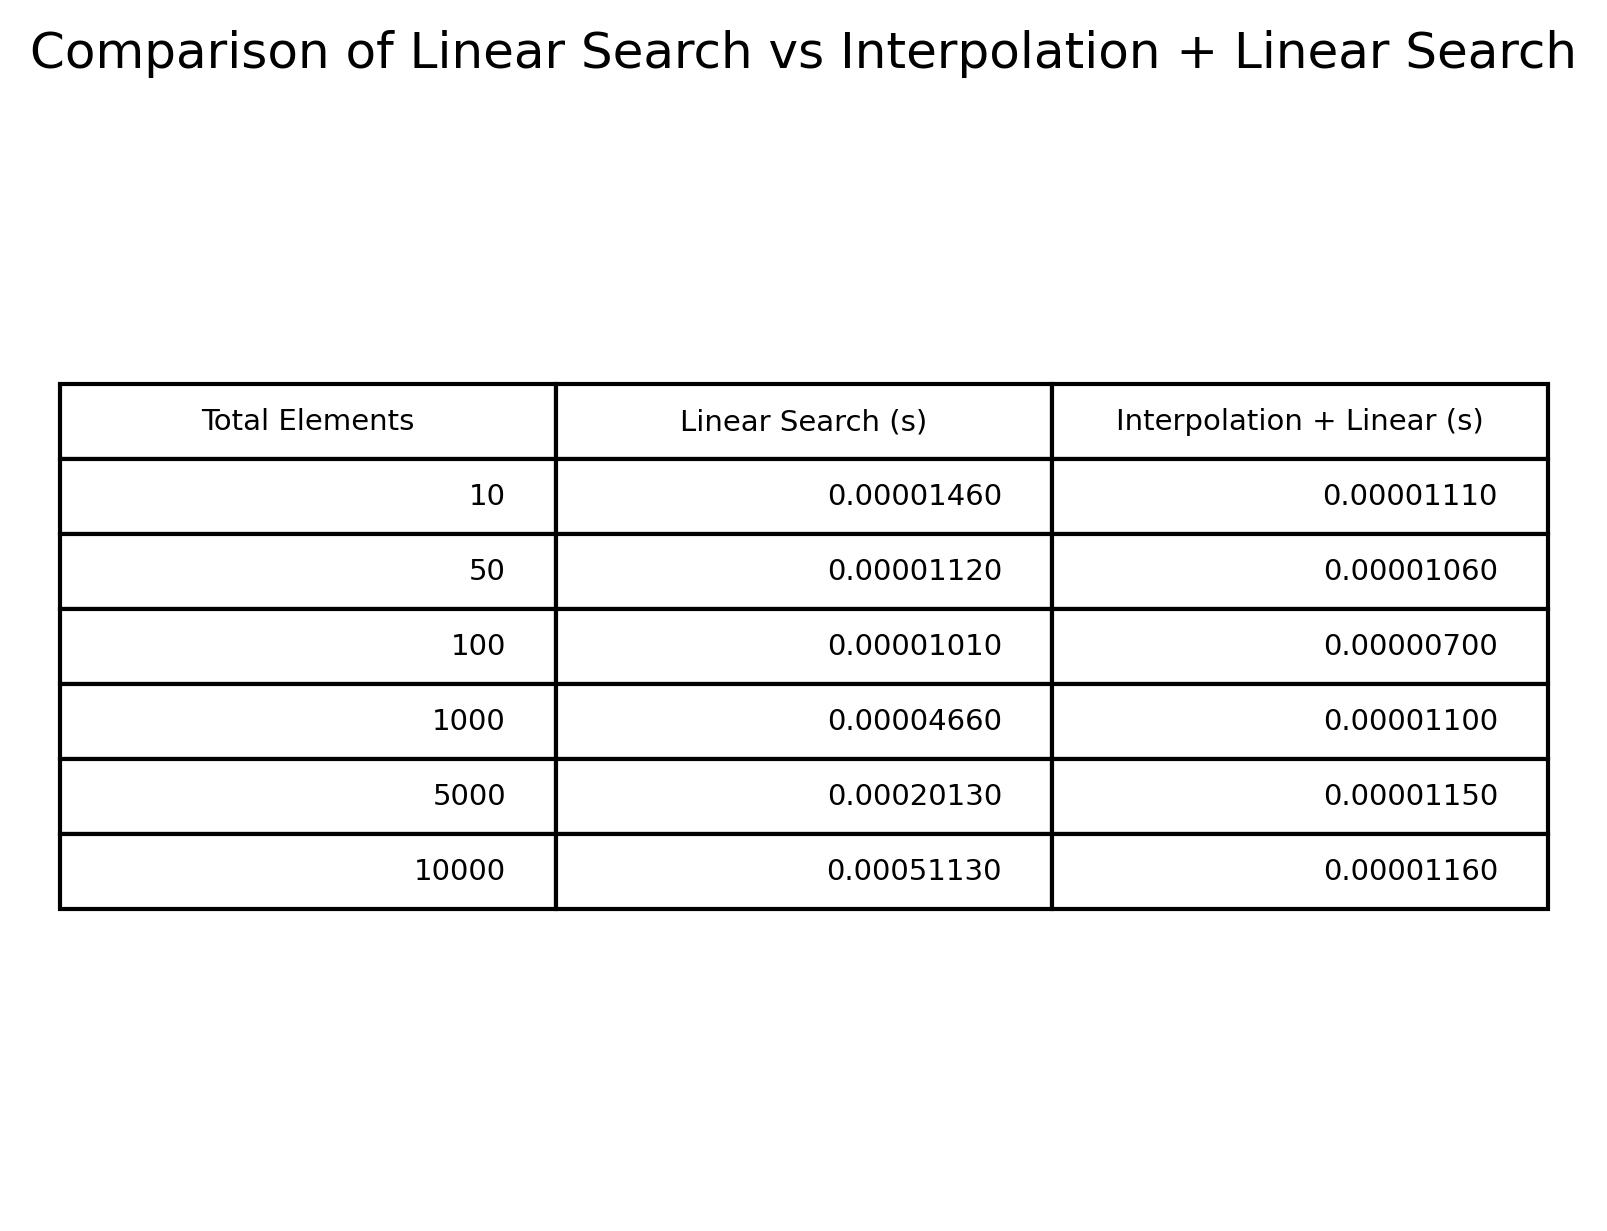
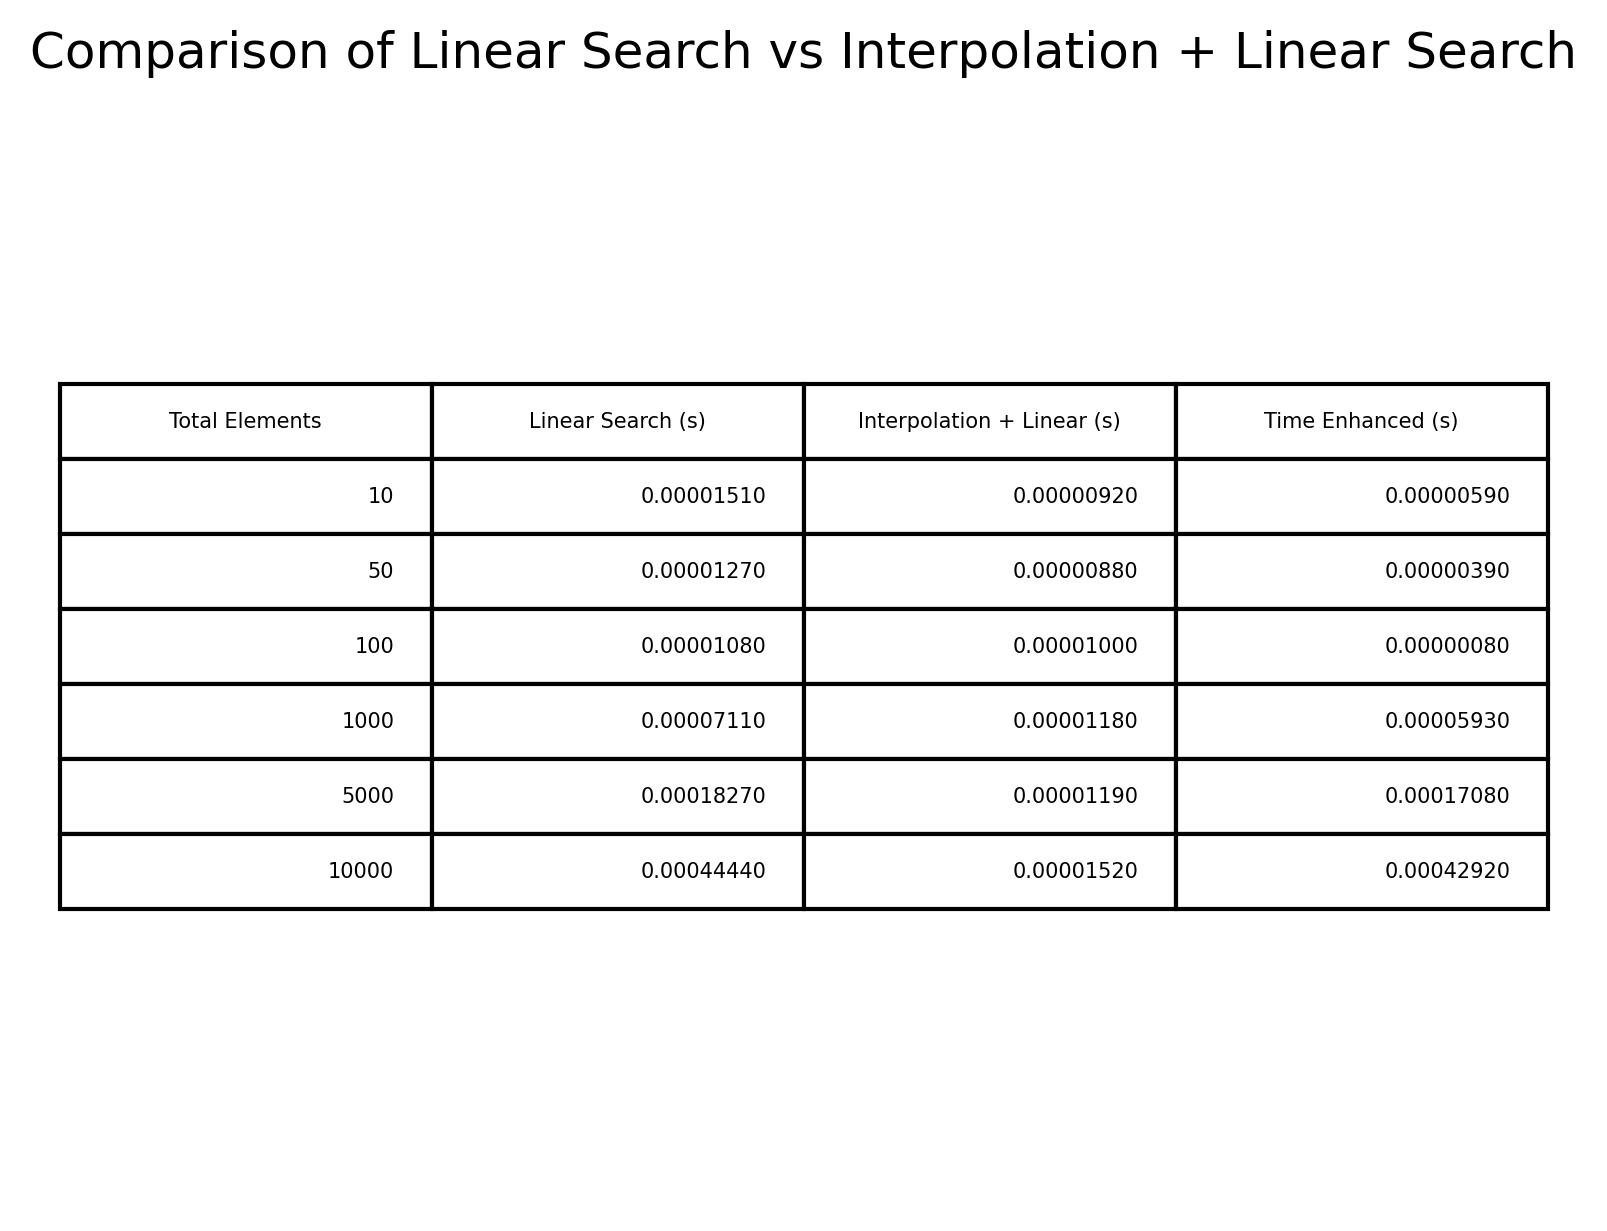
updated with the total time enchanced

diff --git a/hybrid_inter_linear.py b/hybrid_inter_linear.py
@@ -128,7 +128,144 @@
 
 
 
-# table form is bellow 
+# # table form is bellow 
+
+# import random
+# import time
+# import matplotlib.pyplot as plt
+
+# # ---------------- MERGE SORT ----------------
+# def merge_sort(arr):
+#     if len(arr) <= 1:
+#         return arr
+
+#     mid = len(arr) // 2
+#     left = merge_sort(arr[:mid])
+#     right = merge_sort(arr[mid:])
+
+#     return merge(left, right)
+
+# def merge(left, right):
+#     result = []
+#     i = j = 0
+
+#     while i < len(left) and j < len(right):
+#         if left[i] < right[j]:
+#             result.append(left[i])
+#             i += 1
+#         else:
+#             result.append(right[j])
+#             j += 1
+
+#     result.extend(left[i:])
+#     result.extend(right[j:])
+#     return result
+
+
+# # ---------------- LINEAR SEARCH ----------------
+# def linear_search(arr, key):
+#     for i in range(len(arr)):
+#         if arr[i] == key:
+#             return i
+#     return -1
+
+
+# # ---------------- INTERPOLATION + LINEAR SEARCH ----------------
+# def interpolation_linear_search(arr, key):
+#     low, high = 0, len(arr) - 1
+
+#     while low <= high and key >= arr[low] and key <= arr[high]:
+#         if arr[low] == arr[high]:
+#             break
+
+#         pos = low + int(
+#             ((high - low) / (arr[high] - arr[low])) * (key - arr[low])
+#         )
+
+#         window = 5
+#         start = max(low, pos - window)
+#         end = min(high, pos + window)
+
+#         for i in range(start, end + 1):
+#             if arr[i] == key:
+#                 return i
+
+#         if key < arr[start]:
+#             high = start - 1
+#         else:
+#             low = end + 1
+
+#     return -1
+
+
+# # ---------------- MAIN PROGRAM ----------------
+# if __name__ == "__main__":
+
+#     sizes = [10, 50, 100, 1000, 5000, 10000]
+#     results = []
+
+#     for n in sizes:
+#         print("\n==============================================")
+#         print(f"Number of elements (n) = {n}")
+
+#         # Generate random numbers
+#         arr = [random.randint(1, 100000) for _ in range(n)]
+#         print(f"\nThe generated random {n} numbers are:")
+#         print(arr)
+
+#         # Sort using merge sort
+#         sorted_arr = merge_sort(arr)
+#         print("\nAfter Merge Sort, the sorted array elements are:")
+#         print(sorted_arr)
+
+#         # Ask element to search (FOR EACH n)
+#         key = int(input("\nEnter the element to be searched from these numbers: "))
+
+#         # Linear search timing
+#         start = time.perf_counter()
+#         linear_search(sorted_arr, key)
+#         time_linear = time.perf_counter() - start
+
+#         # Hybrid search timing
+#         start = time.perf_counter()
+#         interpolation_linear_search(sorted_arr, key)
+#         time_hybrid = time.perf_counter() - start
+
+#         results.append([n, f"{time_linear:.8f}", f"{time_hybrid:.8f}"])
+
+#     # ---------------- PRINT TABLE IN TERMINAL ----------------
+#     print("\n\n============= COMPARISON TABLE =============")
+#     print("-" * 75)
+#     print(f"{'Total Elements':<20}{'Linear Search (s)':<25}{'Interpolation + Linear (s)'}")
+#     print("-" * 75)
+
+#     for row in results:
+#         print(f"{row[0]:<20}{row[1]:<25}{row[2]}")
+
+#     print("-" * 75)
+
+#     # ---------------- SAVE TABLE AS JPG ----------------
+#     fig, ax = plt.subplots()
+#     ax.axis('off')
+
+#     table = ax.table(
+#         cellText=results,
+#         colLabels=["Total Elements", "Linear Search (s)", "Interpolation + Linear (s)"],
+#         loc='center'
+#     )
+
+#     table.scale(1, 1.5)
+#     plt.title("Comparison of Linear Search vs Interpolation + Linear Search")
+
+#     plt.savefig("search_comparison_table.jpg", dpi=300, bbox_inches='tight')
+#     plt.show()
+
+#     print("\n✅ JPG file created: search_comparison_table.jpg")
+
+
+
+
+
 
 import random
 import time
@@ -218,7 +355,7 @@ if __name__ == "__main__":
         print("\nAfter Merge Sort, the sorted array elements are:")
         print(sorted_arr)
 
-        # Ask element to search (FOR EACH n)
+        # Ask element to search
         key = int(input("\nEnter the element to be searched from these numbers: "))
 
         # Linear search timing
@@ -231,18 +368,33 @@ if __name__ == "__main__":
         interpolation_linear_search(sorted_arr, key)
         time_hybrid = time.perf_counter() - start
 
-        results.append([n, f"{time_linear:.8f}", f"{time_hybrid:.8f}"])
+        # Time difference
+        time_difference = time_linear - time_hybrid
+
+        # Print enhancement message
+        if time_difference > 0:
+            print(f"⏱ Time has been enhanced by {time_difference:.8f} seconds using Interpolation + Linear Search")
+        else:
+            print(f"⚠ Hybrid search took {-time_difference:.8f} seconds more than Linear Search")
+
+        results.append([
+            n,
+            f"{time_linear:.8f}",
+            f"{time_hybrid:.8f}",
+            f"{time_difference:.8f}"
+        ])
 
     # ---------------- PRINT TABLE IN TERMINAL ----------------
     print("\n\n============= COMPARISON TABLE =============")
-    print("-" * 75)
-    print(f"{'Total Elements':<20}{'Linear Search (s)':<25}{'Interpolation + Linear (s)'}")
-    print("-" * 75)
+    print("-" * 95)
+    print(f"{'Total Elements':<20}{'Linear Search (s)':<25}"
+          f"{'Interpolation + Linear (s)':<30}{'Time Enhanced (s)'}")
+    print("-" * 95)
 
     for row in results:
-        print(f"{row[0]:<20}{row[1]:<25}{row[2]}")
+        print(f"{row[0]:<20}{row[1]:<25}{row[2]:<30}{row[3]}")
 
-    print("-" * 75)
+    print("-" * 95)
 
     # ---------------- SAVE TABLE AS JPG ----------------
     fig, ax = plt.subplots()
@@ -250,7 +402,12 @@ if __name__ == "__main__":
 
     table = ax.table(
         cellText=results,
-        colLabels=["Total Elements", "Linear Search (s)", "Interpolation + Linear (s)"],
+        colLabels=[
+            "Total Elements",
+            "Linear Search (s)",
+            "Interpolation + Linear (s)",
+            "Time Enhanced (s)"
+        ],
         loc='center'
     )
 
